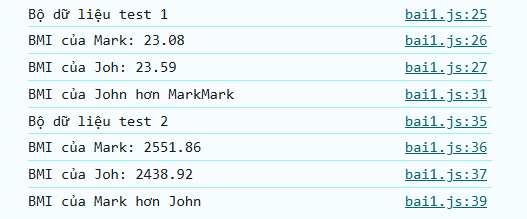
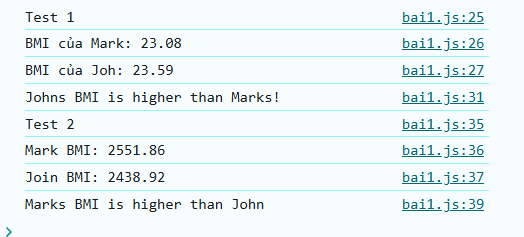
hoan thanh bai 1

Changed region(s): [[0.0305, 0.274, 0.9466, 0.9589], [0.0305, 0.0274, 0.9466, 0.2466], [0.0, 0.9589, 0.0305, 1.0]]

diff --git a/bai1/bai1.js b/bai1/bai1.js
@@ -22,22 +22,22 @@ let BMIJohn2 = tinhBMI(weightJohn2, heightJohn2);
 let markHigherBMI2 = BMIMark2 >BMIJohn2;
 
 //Dữ liệu 11
-console.log('Bộ dữ liệu test 1'); 
+console.log('Test 1'); 
 console.log('BMI của Mark:',BMIMark.toFixed(2));
 console.log('BMI của Joh:',BMIJohn.toFixed(2));
 if(markHigherBMI){
-    console.log('BMI của Mark hơn John'); 
+    console.log('Marks BMI is higher than John'); 
 } else{
-    console.log('BMI của John hơn MarkMark'); 
+    console.log('Johns BMI is higher than Marks!'); 
 }
 
 //bộ dữ liệu test 2
-console.log('Bộ dữ liệu test 2'); 
-console.log('BMI của Mark:',BMIMark2.toFixed(2));
-console.log('BMI của Joh:',BMIJohn2.toFixed(2));
+console.log('Test 2'); 
+console.log('Mark BMI:',BMIMark2.toFixed(2));
+console.log('Join BMI:',BMIJohn2.toFixed(2));
 if(markHigherBMI2){
-    console.log('BMI của Mark hơn John'); 
+    console.log('Marks BMI is higher than John'); 
 } else{
-    console.log('BMI của John hơn MarkMark'); 
+    console.log('Johns BMI is higher than Marks!'); 
 }
 
